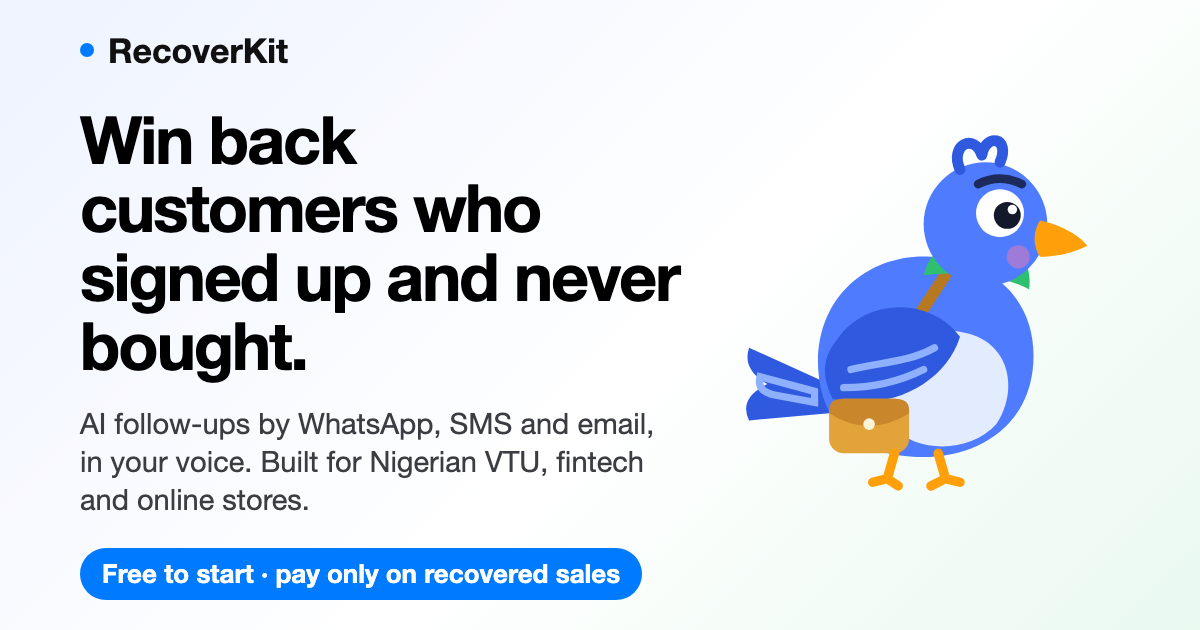
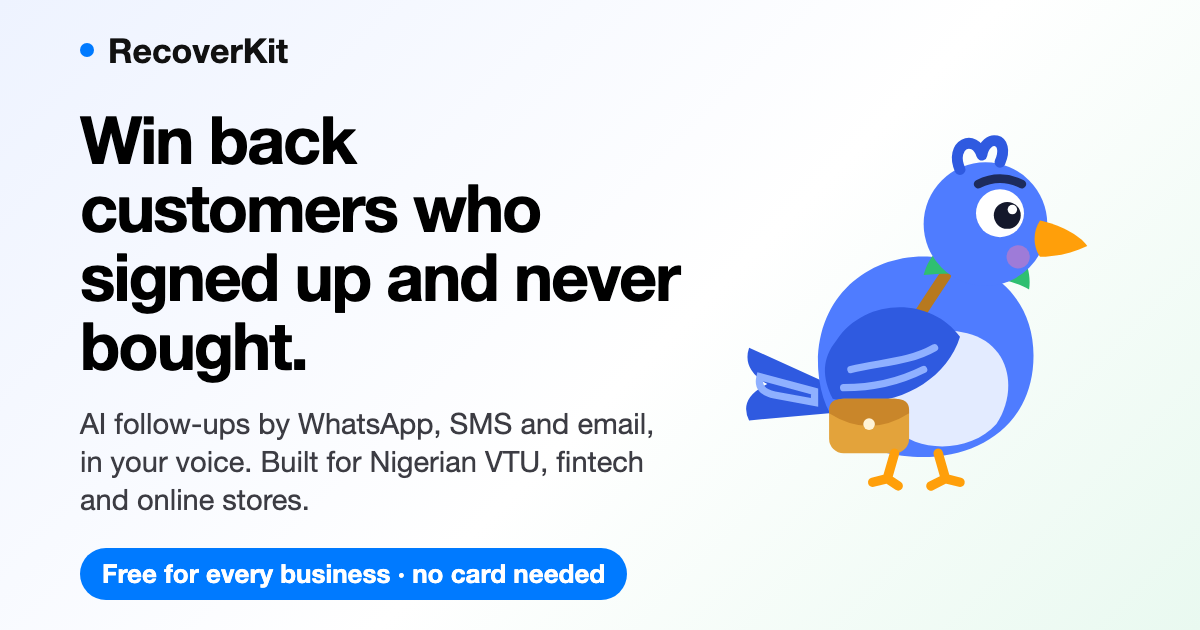
RecoverKit is free: no fee by default
RK_FEE_PERCENT now defaults to 0. The website, FAQ, JSON-LD (isAccessibleForFree), llms.txt, blog call-to-action and share image say free with no card needed; the overview shows People to follow up instead of a fee tile. A fee can still be shown by setting RK_FEE_PERCENT. Adds scripts/build-og.mjs to rebuild the share image.

Changed region(s): [[0.1233, 0.8746, 0.555, 0.9651]]

diff --git a/src/site.js b/src/site.js
@@ -12,7 +12,7 @@ export function siteFacts(config, signupOpen = false) {
   return {
     name: 'RecoverKit',
     url: config.publicUrl,
-    fee: config.feePercent ?? 10,
+    fee: Number(config.feePercent) || 0,
     days: config.attributionDays ?? 7,
     signupOpen,
     description: 'RecoverKit finds the customers a business is losing (people who signed up but never bought, funded a wallet but never bought, or bought once and went quiet), drafts WhatsApp, SMS and email follow-ups in the business\'s own voice, and counts the sales it wins back. Built for Nigerian VTU, fintech, betting, e-commerce and subscription businesses.',
@@ -23,7 +23,9 @@ export function faq(f) {
   return [
     ['What is RecoverKit?', `RecoverKit is a sales-recovery tool for digital businesses. It finds people who registered but never bought, funded a wallet but never bought, or bought once and stopped, then drafts personal follow-up messages for the business to approve and send by WhatsApp, SMS or email.`],
     ['Who is RecoverKit for?', 'Nigerian and African digital businesses: VTU (airtime and data) sites, fintech and wallet apps, betting platforms, online stores and subscription services. It works with any website or app.'],
-    ['How much does RecoverKit cost?', `Setting up is free. RecoverKit charges ${f.fee}% of the revenue it recovers: a verified purchase within ${f.days} days of a follow-up message. If nothing is recovered, you pay nothing.`],
+    ['How much does RecoverKit cost?', f.fee
+      ? `Setting up is free. RecoverKit charges ${f.fee}% of the revenue it recovers: a verified purchase within ${f.days} days of a follow-up message. If nothing is recovered, you pay nothing.`
+      : 'RecoverKit is free. There is no monthly fee, no commission on recovered sales, and no card needed to sign up. You only pay your own providers for messages you send (WhatsApp, SMS or email) and for an AI model if you choose one.'],
     ['How does RecoverKit know someone really bought?', 'From three places: signed payment webhooks (Paystack, Flutterwave, Monnify and others), your own server calling trackPurchase, or your database through a read-only connector. A "payment successful" screen in the browser is never trusted as proof, so nobody who already paid gets chased.'],
     ['Is a wallet deposit counted as a sale?', 'No. For VTU, betting and fintech apps a deposit is not a purchase. People who fund their wallet and never buy anything are treated as leads, and only real purchases count as sales.'],
     ['Can RecoverKit use my existing customers?', `Yes. A read-only connector runs on your own server and reads your existing database where it is (${DATABASES.join(', ')}), with any table design and any programming language. It sends only hashed IDs, dates and amounts, never raw customer data.`],
@@ -39,7 +41,8 @@ function jsonLdData(f) {
     {
       '@context': 'https://schema.org', '@type': 'SoftwareApplication', name: f.name, url: f.url,
       applicationCategory: 'BusinessApplication', operatingSystem: 'Web', description: f.description,
-      offers: { '@type': 'Offer', price: '0', priceCurrency: 'NGN', description: `Free to set up; ${f.fee}% of recovered revenue.` },
+      offers: { '@type': 'Offer', price: '0', priceCurrency: 'NGN', description: f.fee ? `Free to set up; ${f.fee}% of recovered revenue.` : 'Free. No monthly fee and no commission.' },
+      isAccessibleForFree: !f.fee,
       areaServed: [{ '@type': 'Country', name: 'Nigeria' }, { '@type': 'Place', name: 'Africa' }],
       featureList: ['Finds sign-ups who never bought', 'Wallet deposits are not counted as sales', 'AI follow-ups in your own voice', 'Approve before sending', 'WhatsApp, SMS and email', 'Read-only connector for existing databases', 'Revenue attribution'],
     },
@@ -78,7 +81,7 @@ function head(f, { title, desc, path, type = 'website', extra = '', structured =
 export function landingPage(config, { signedIn = false, signupOpen = false } = {}) {
   const f = siteFacts(config, signupOpen);
   const title = 'RecoverKit: win back customers who signed up but never bought';
-  const desc = `Find people who registered, funded a wallet or bought once and never came back. RecoverKit drafts WhatsApp, SMS and email follow-ups in your voice. Free to start; ${f.fee}% of recovered sales.`;
+  const desc = `Find people who registered, funded a wallet or bought once and never came back. RecoverKit drafts WhatsApp, SMS and email follow-ups in your voice. ${f.fee ? `Free to start; ${f.fee}% of recovered sales.` : 'Free, no card needed.'}`;
   const cta = ctaButtons(f, signedIn);
   const card = (t, d) => `<article class="m-card"><h3>${t}</h3><p>${d}</p></article>`;
   return `${head(f, { title, desc, path: '/', structured: jsonLdData(f) })}
@@ -90,7 +93,7 @@ ${nav(signedIn)}
   <h1>Win back the customers who signed up and never bought.</h1>
   <p class="m-lead">RecoverKit finds people who registered, funded a wallet or bought once and went quiet. It drafts a personal WhatsApp, SMS or email follow-up in your own voice, you approve it, and it counts every sale it wins back.</p>
   <div class="m-cta">${cta}<a class="btn plain" href="#how">See how it works</a></div>
-  <p class="m-small">Free to set up. You pay ${f.fee}% of recovered sales, and nothing if nothing is recovered.</p></div>
+  <p class="m-small">${f.fee ? `Free to set up. You pay ${f.fee}% of recovered sales, and nothing if nothing is recovered.` : 'Free. No monthly fee, no commission, no card needed.'}</p></div>
   <div class="m-hero-art">${kobo({ mode: 'hero', size: 260, title: 'Kobo the pigeon flying out and bringing back a coin' })}</div>
 </section>
 
@@ -123,8 +126,10 @@ ${nav(signedIn)}
   <p class="m-lead">VTU sites selling airtime and data, fintech and wallet apps, betting platforms, online stores and subscription services across Nigeria and Africa. If people sign up on your website or app and pay you online, RecoverKit can follow up with the ones who didn't.</p></section>
 
 <section class="m-section" id="pricing" aria-labelledby="pricing-h"><h2 id="pricing-h">Pricing</h2>
-  <div class="m-price"><b>${f.fee}%</b><span>of recovered revenue</span></div>
-  <ul class="m-list"><li>Free to set up, no monthly fee</li><li>Recovered means a verified purchase within ${f.days} days of a follow-up</li><li>Nothing to pay if nothing is recovered</li></ul>
+  ${f.fee ? `<div class="m-price"><b>${f.fee}%</b><span>of recovered revenue</span></div>
+  <ul class="m-list"><li>Free to set up, no monthly fee</li><li>Recovered means a verified purchase within ${f.days} days of a follow-up</li><li>Nothing to pay if nothing is recovered</li></ul>`
+    : `<div class="m-price"><b>Free</b><span>for every business</span></div>
+  <ul class="m-list"><li>No monthly fee and no commission on recovered sales</li><li>No card needed to sign up</li><li>You only pay your own providers for the messages you send (WhatsApp, SMS or email), and an AI model if you choose one</li></ul>`}
   <div class="m-cta">${cta}</div></section>
 
 <section class="m-section" id="faq" aria-labelledby="faq-h"><h2 id="faq-h">Frequently asked questions</h2>
@@ -172,7 +177,7 @@ export function blogPostPage(config, { post, more = [], signedIn = false, signup
 <h1>${esc(post.title)}</h1>
 <p class="m-meta"><time datetime="${iso(post.published_at)}">${DATE.format(post.published_at)}</time> · ${readingMinutes(post.body)} min read</p>
 <div class="m-prose">${renderMarkdown(post.body)}</div>
-<aside class="m-cta-box"><h2>Recover the customers you're already losing</h2><p>RecoverKit finds people who signed up, funded a wallet or bought once and went quiet, and drafts follow-ups in your voice for you to approve. Free to set up; ${f.fee}% of recovered sales.</p><div class="m-cta">${ctaButtons(f, signedIn)}</div></aside>
+<aside class="m-cta-box"><h2>Recover the customers you're already losing</h2><p>RecoverKit finds people who signed up, funded a wallet or bought once and went quiet, and drafts follow-ups in your voice for you to approve. ${f.fee ? `Free to set up; ${f.fee}% of recovered sales.` : 'Free, with no card needed.'}</p><div class="m-cta">${ctaButtons(f, signedIn)}</div></aside>
 </article>
 ${more.length ? `<section class="m-more"><h2>More from the blog</h2>${more.map((p) => `<p><a href="/blog/${esc(p.slug)}">${esc(p.title)}</a></p>`).join('')}</section>` : ''}
 </main>${footer(f)}</body></html>`;
@@ -230,7 +235,7 @@ RecoverKit is a sales-recovery SDK and web dashboard. Website: ${f.url}
 - Every message is approved by the business before it is sent, by WhatsApp (Cloud API), SMS (Termii) or email.
 - Existing customers can be imported with a read-only connector that reads ${DATABASES.join(', ')} in place, with any schema or programming language.
 - Privacy: emails and phones are hashed before they leave the device or server; contact details are encrypted with AES-256-GCM; people can be erased on request (Nigeria Data Protection Act).
-- Pricing: free to set up; ${f.fee}% of recovered revenue, meaning a verified purchase within ${f.days} days of a follow-up. Nothing to pay if nothing is recovered.
+- Pricing: ${f.fee ? `free to set up; ${f.fee}% of recovered revenue, meaning a verified purchase within ${f.days} days of a follow-up. Nothing to pay if nothing is recovered.` : 'free. No monthly fee, no commission and no card needed; businesses only pay their own messaging and AI providers.'}
 - Built for Nigerian and African digital businesses: VTU (airtime and data), fintech, betting, e-commerce and subscriptions.
 
 ## Links

diff --git a/test/site.test.js b/test/site.test.js
@@ -96,3 +96,19 @@ test('Google Search Console verification file, only when configured', async () =
   assert.equal((await fetch(base + '/google0000000000000000.html')).status, 404);
   cfg.googleVerify = null;
 });
+
+test('free by default: no fee anywhere on the site, FAQ or llms.txt', async () => {
+  const d = mkdtempSync(join(tmpdir(), 'rk-free-'));
+  const c = { ...cfg, dbPath: join(d, 't.db'), feePercent: 0 };
+  const a = await createApp({ config: c, logger: { log() {}, warn() {}, error() {} } });
+  await new Promise((r) => a.server.listen(0, '127.0.0.1', r));
+  const b = `http://127.0.0.1:${a.server.address().port}`;
+  const html = await (await fetch(b + '/')).text();
+  assert.match(html, /<b>Free<\/b>/);
+  assert.match(html, /no card needed/i);
+  assert.ok(!/% of recovered|commission on recovered sales\./.test(html.replace('no commission on recovered sales', '')), 'no fee claims');
+  const app = [...html.matchAll(/<script type="application\/ld\+json">(.*?)<\/script>/gs)].map((m) => JSON.parse(m[1])).find((x) => x['@type'] === 'SoftwareApplication');
+  assert.equal(app.isAccessibleForFree, true);
+  assert.match(await (await fetch(b + '/llms.txt')).text(), /Pricing: free\./);
+  await a.close(); rmSync(d, { recursive: true, force: true });
+});

diff --git a/src/dashboard/index.js b/src/dashboard/index.js
@@ -122,7 +122,9 @@ export function createDashboard({ db, config, keys, projects, engine, outreach, 
       <a class="btn tinted small" href="/dashboard/payments">${gws.length ? 'Check gateways' : 'Connect a gateway'}</a></div>`;
     const tiles = [
       ['Recovered revenue', money(rev.recoveredAmount, p.currency), `${rev.recoveredPurchases} purchase${rev.recoveredPurchases === 1 ? '' : 's'} within ${config.attributionDays} days of a message`],
-      [`Fee (${config.feePercent}%)`, money(rev.fee, p.currency), 'Only charged on recovered sales'],
+      config.feePercent
+        ? [`Fee (${config.feePercent}%)`, money(rev.fee, p.currency), 'Only charged on recovered sales']
+        : ['People to follow up', String(['registered', 'browsed', 'checkout_abandoned', 'funded_not_bought', 'bought_once', 'lapsed_repeat'].reduce((n, k) => n + (f[k] || 0), 0)), '<a href="/dashboard/leads">See your leads</a>'],
       ['Messages sent', String(rev.messagesSent), 'All time'],
       ['Waiting for you', String(ctx.badge), ctx.badge ? '<a href="/dashboard/messages">Review drafts</a>' : 'No drafts to review'],
     ];

diff --git a/src/config.js b/src/config.js
@@ -40,7 +40,8 @@ export function readConfig(env = process.env) {
     // Lets a business point the AI at a private address (e.g. Ollama on this machine). Off by default (SSRF).
     allowPrivateAiUrls: env.RK_ALLOW_PRIVATE_AI_URLS === '1',
     attributionDays: Number(env.RK_ATTRIBUTION_DAYS || 7),
-    feePercent: Number(env.RK_FEE_PERCENT || 10),
+    // RecoverKit is free by default. RK_FEE_PERCENT turns on a fee on recovered revenue (shown, not collected).
+    feePercent: Number(env.RK_FEE_PERCENT || 0),
     minDaysBetweenMessages: Number(env.RK_MIN_DAYS_BETWEEN_MESSAGES || 7),
     // Raw events older than this are deleted (data minimisation). Purchases and messages are kept.
     retentionDays: Number(env.RK_RETENTION_DAYS || 395),

diff --git a/scripts/demo.js b/scripts/demo.js
@@ -13,7 +13,7 @@ for (const f of [dbPath, `${dbPath}-wal`, `${dbPath}-shm`]) rmSync(f, { force: t
 
 const config = {
   masterKey: randomBytes(32), port, host: '127.0.0.1', dbPath, publicUrl: `http://localhost:${port}`, trustProxy: false,
-  ai: { provider: 'none' }, allowPrivateAiUrls: false, attributionDays: 7, feePercent: 10, minDaysBetweenMessages: 7, retentionDays: 395,
+  ai: { provider: 'none' }, allowPrivateAiUrls: false, attributionDays: 7, feePercent: 0, minDaysBetweenMessages: 7, retentionDays: 395,
 };
 // Demo: sign-up is open and emails are printed here instead of being sent.
 config.signup = 'open';

diff --git a/docs/GUIDE.md b/docs/GUIDE.md
@@ -218,9 +218,9 @@ Channels (Settings): WhatsApp Cloud API (needs an approved template with one `{{
 
 Run `npm run cli -- send <projectId>` from cron to send approved messages automatically, or use the Send button.
 
-## Recovered revenue and pricing
+## Recovered revenue
 
-A verified purchase within 7 days of a sent message counts as recovered (`RK_ATTRIBUTION_DAYS`). The overview shows recovered revenue and the fee (`RK_FEE_PERCENT`, default 10%).
+A verified purchase within 7 days of a sent message counts as recovered (`RK_ATTRIBUTION_DAYS`). The overview shows recovered revenue. RecoverKit is free by default; `RK_FEE_PERCENT` shows a fee on recovered revenue on the overview (it isn't collected).
 
 ## Configuration
 
